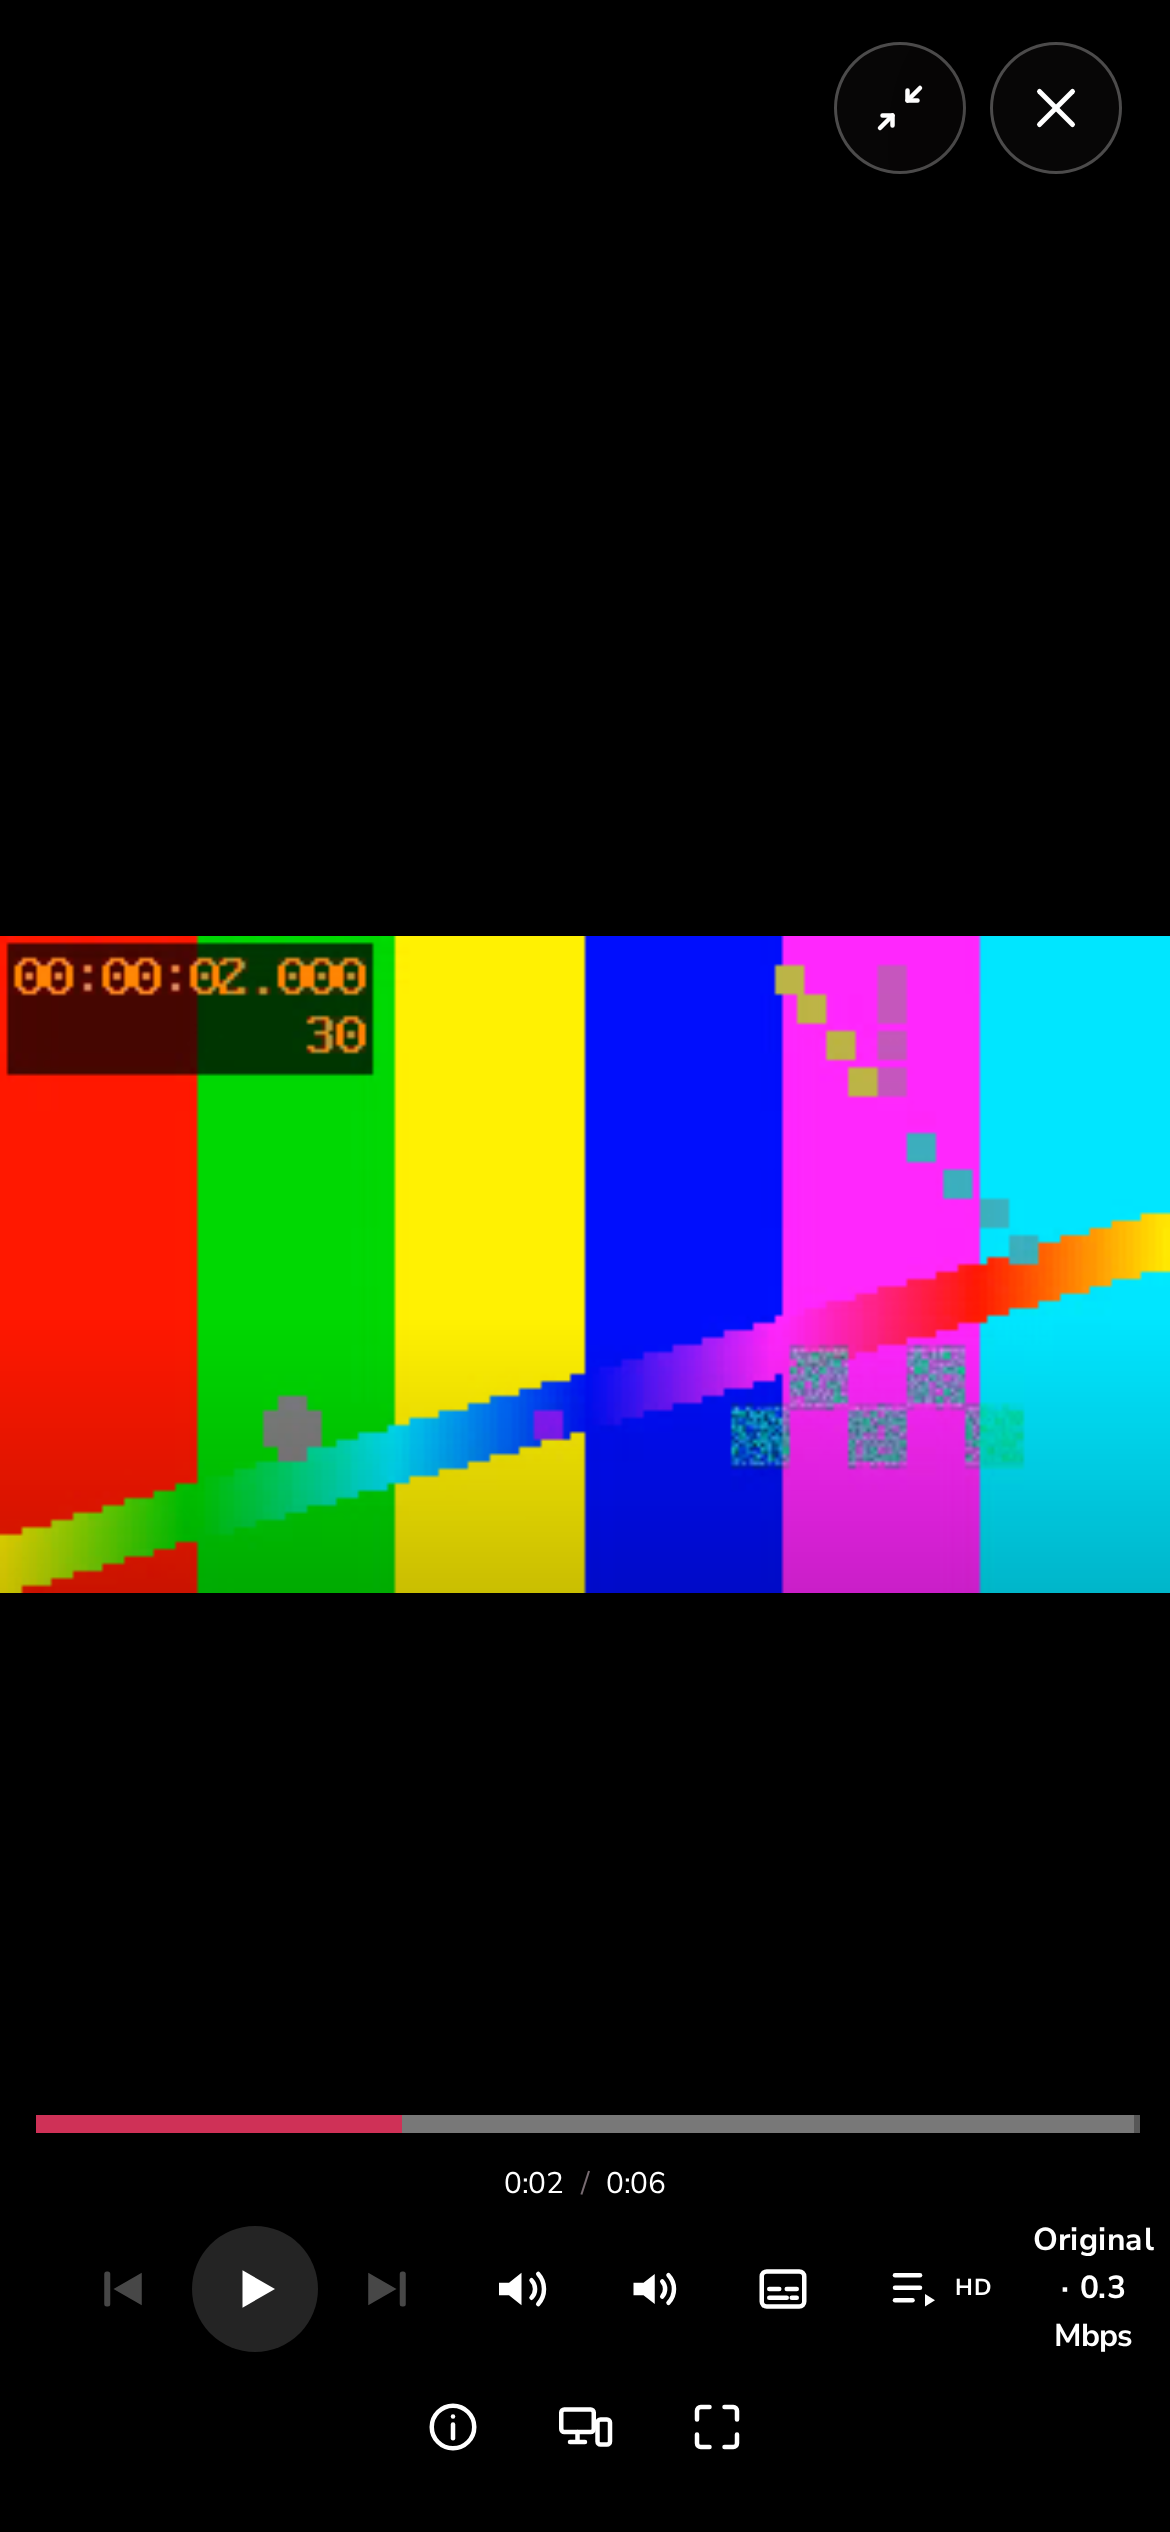
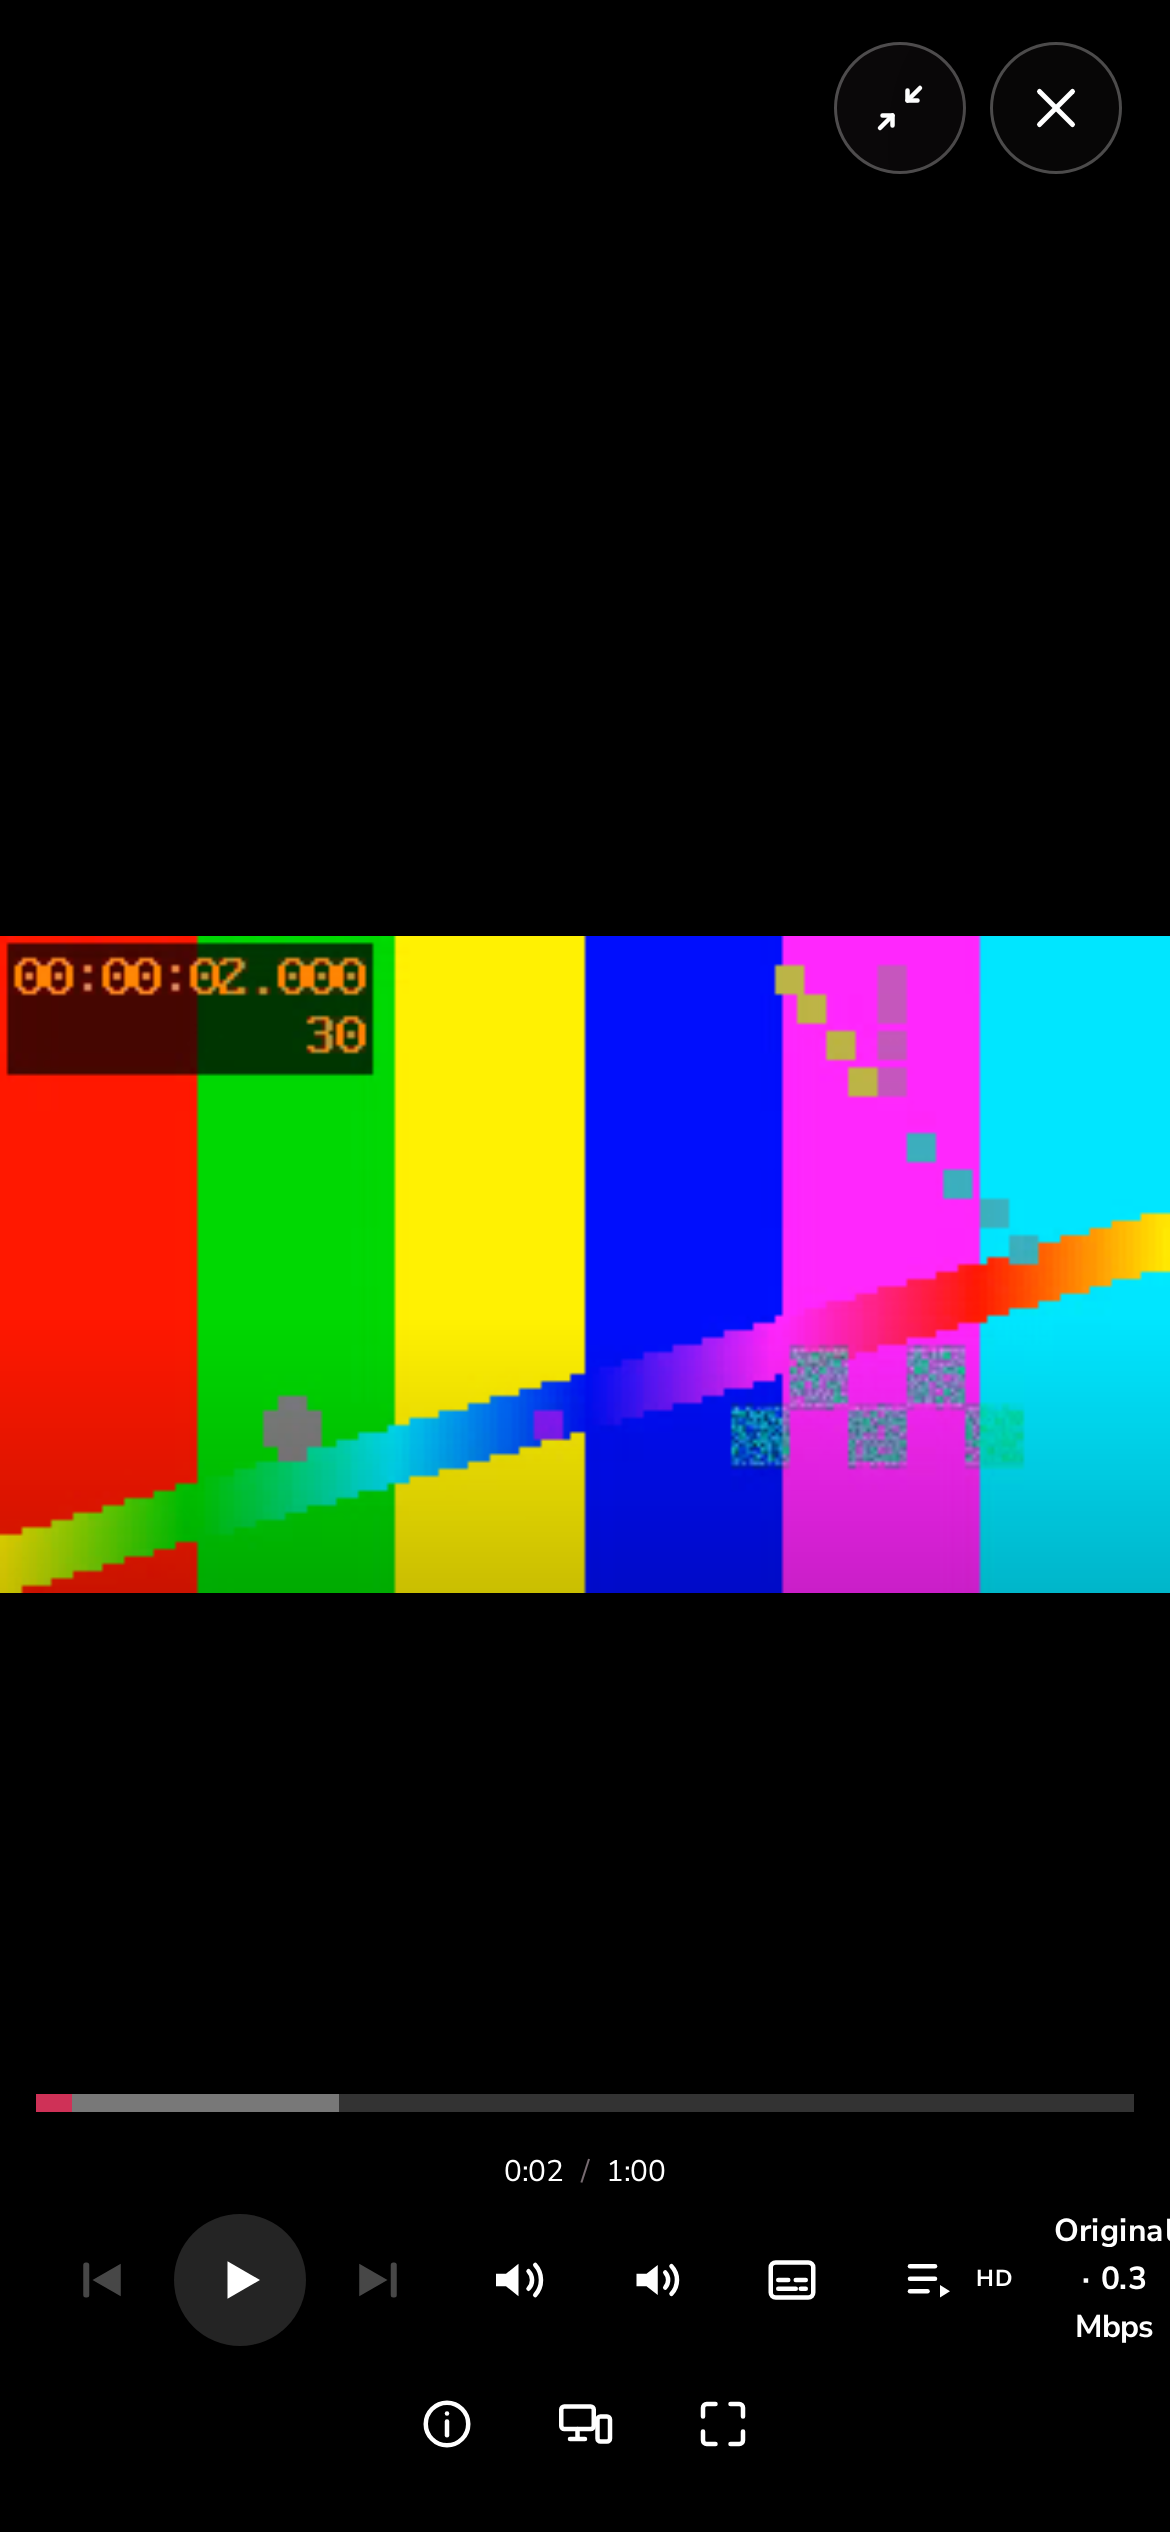
fix(web): 44px targets and 7:1 text over video for calendar, player chrome and drawers
Calendar month chips, header Back and period buttons, drawer close, update toast
dismiss, player control buttons, seek bar and volume slider reach 44x44 CSS px
(WCAG 2.5.5). Player close and minimise fills and player menu secondary text are
raised so text over video holds 7:1. The page audit gains player routes.

diff --git a/clients/tv-web/web/src/styles/global.css b/clients/tv-web/web/src/styles/global.css
@@ -2837,8 +2837,8 @@ code {
 }
 
 .update-toast-dismiss {
-  width: 38px;
-  height: 38px;
+  width: 44px;
+  height: 44px;
   background: transparent;
   color: var(--ink-muted);
   cursor: pointer;
@@ -3073,7 +3073,7 @@ code {
   padding: 0 1rem;
   border: 1px solid rgba(255, 255, 255, 0.28);
   border-radius: 999px;
-  background: rgba(12, 10, 11, 0.58);
+  background: rgba(12, 10, 11, 0.82);
   color: #ffffff;
   box-shadow: 0 12px 36px rgba(0, 0, 0, 0.3);
   backdrop-filter: blur(18px) saturate(120%);
@@ -3333,7 +3333,7 @@ code {
 .player-music-copy span,
 .player-music-copy small {
   overflow: hidden;
-  color: rgba(255, 255, 255, 0.58);
+  color: rgba(255, 255, 255, 0.8);
   font-size: clamp(0.55rem, calc(0.66 * var(--vw)), 0.76rem);
   font-weight: 680;
   letter-spacing: 0.08em;
@@ -3606,7 +3606,7 @@ body[data-input-mode="remote"]
 }
 
 .mini-player-time {
-  color: rgba(255, 255, 255, 0.64);
+  color: rgba(255, 255, 255, 0.8);
   font-size: clamp(0.46rem, calc(0.5 * var(--vw)), 0.58rem);
   font-variant-numeric: tabular-nums;
   line-height: 1;
@@ -3809,8 +3809,10 @@ body[data-input-mode="remote"]
 .player-seek-track {
   position: relative;
   width: 100%;
-  height: 6px;
-  background: rgba(255, 255, 255, 0.2);
+  /* A 44px tall hit area (WCAG 2.5.5) around the 6px bar; the margin keeps the controls layout where it was. */
+  height: 44px;
+  margin-block: -16px;
+  background: linear-gradient(rgba(255, 255, 255, 0.2), rgba(255, 255, 255, 0.2)) center / 100% 6px no-repeat;
   cursor: pointer;
   touch-action: none;
 }
@@ -3825,14 +3827,23 @@ body[data-input-mode="remote"] .player-seek-track:focus,
 /* Clear focus indicator: the white ring, with an enlarged highlighted thumb. */
 .player-seek-track:focus-visible,
 body[data-input-mode="remote"] .player-seek-track:focus {
+  box-shadow: none;
+}
+
+.player-seek-track:focus-visible::after,
+body[data-input-mode="remote"] .player-seek-track:focus::after {
+  content: "";
+  position: absolute;
+  inset: calc(50% - 3px) 0;
   box-shadow: 0 0 0 3px #ffffff;
+  pointer-events: none;
 }
 
 .player-seek-buffered,
 .player-seek-progress {
   position: absolute;
-  top: 0;
-  bottom: 0;
+  top: calc(50% - 3px);
+  height: 6px;
 }
 
 .player-seek-buffered {
@@ -3971,7 +3982,11 @@ body[data-input-mode="remote"] .player-seek-track:focus .player-seek-thumb {
 
 .player-volume-range {
   width: clamp(70px, calc(7 * var(--vw)), 130px);
-  height: 5px;
+  /* 44px hit area (WCAG 2.5.5); the 5px bar is drawn in the middle. */
+  height: 44px;
+  background-position: center;
+  background-repeat: no-repeat;
+  background-size: 100% 5px;
   border-radius: 0;
   appearance: none;
   cursor: pointer;
@@ -4005,7 +4020,7 @@ body[data-input-mode="remote"] .player-seek-track:focus .player-seek-thumb {
 
 .player-quality-button {
   min-width: 118px;
-  height: clamp(42px, calc(3.3 * var(--vw)), 56px);
+  height: clamp(44px, calc(3.3 * var(--vw)), 56px);
   display: inline-flex;
   align-items: center;
   justify-content: center;
@@ -4078,7 +4093,7 @@ body[data-input-mode="remote"] .player-seek-track:focus .player-seek-thumb {
 
 .player-quality-heading {
   padding: 0.55rem 0.7rem 0.45rem;
-  color: rgba(255, 255, 255, 0.56);
+  color: rgba(255, 255, 255, 0.8);
   font-size: 0.54rem;
   font-weight: 760;
   letter-spacing: 0.15em;
@@ -4136,7 +4151,7 @@ body[data-input-mode="remote"] .player-seek-track:focus .player-seek-thumb {
 }
 
 .player-quality-option small {
-  color: rgba(255, 255, 255, 0.55);
+  color: rgba(255, 255, 255, 0.8);
   font-size: 0.52rem;
 }
 
@@ -4295,7 +4310,7 @@ body[data-input-mode="remote"] .player-seek-track:focus .player-seek-thumb {
 .quality-matrix.is-player .quality-matrix-column-heading,
 .quality-matrix.is-player .quality-matrix-row-heading small,
 .quality-matrix.is-player .quality-matrix-choice small {
-  color: rgba(255, 255, 255, 0.54);
+  color: rgba(255, 255, 255, 0.8);
 }
 
 .quality-matrix.is-player .quality-matrix-row-heading {
@@ -4376,7 +4391,7 @@ body[data-input-mode="remote"] .player-seek-track:focus .player-seek-thumb {
 .player-playlist-panel > header span {
   display: block;
   margin-top: 0.18rem;
-  color: rgba(255, 255, 255, 0.5);
+  color: rgba(255, 255, 255, 0.8);
   font-size: 0.58rem;
 }
 
@@ -4428,7 +4443,7 @@ body[data-input-mode="remote"] .player-seek-track:focus .player-seek-thumb {
     rgba(8, 6, 7, 0.98) 62%,
     rgba(8, 6, 7, 0)
   );
-  color: rgba(255, 255, 255, 0.62);
+  color: rgba(255, 255, 255, 0.8);
   font-size: 0.55rem;
   font-weight: 780;
   letter-spacing: 0.14em;
@@ -4509,7 +4524,7 @@ body[data-input-mode="remote"] .player-seek-track:focus .player-seek-thumb {
 }
 
 .player-playlist-copy > span {
-  color: rgba(255, 255, 255, 0.5);
+  color: rgba(255, 255, 255, 0.8);
   font-size: 0.5rem;
 }
 
@@ -5870,8 +5885,8 @@ body[data-input-mode="remote"] .player-seek-track:focus .player-seek-thumb {
 }
 
 .tv-filter-drawer > header > button {
-  width: clamp(36px, calc(2.7 * var(--vw)), 48px);
-  height: clamp(36px, calc(2.7 * var(--vw)), 48px);
+  width: clamp(44px, calc(2.7 * var(--vw)), 48px);
+  height: clamp(44px, calc(2.7 * var(--vw)), 48px);
   display: grid;
   place-items: center;
   padding: 0;
@@ -5907,7 +5922,7 @@ body[data-input-mode="remote"] .player-seek-track:focus .player-seek-thumb {
 }
 
 .tv-filter-choice-grid button {
-  min-height: clamp(42px, calc(3.6 * var(--vw)), 56px);
+  min-height: clamp(44px, calc(3.6 * var(--vw)), 56px);
   display: flex;
   align-items: center;
   justify-content: center;
@@ -10612,9 +10627,9 @@ html.is-native-scroll-root .profile-auth-scroll {
 
   .player-btn,
   .player-quality-button {
-    width: 42px;
-    min-width: 42px;
-    height: 42px;
+    width: 44px;
+    min-width: 44px;
+    height: 44px;
     padding: 0;
   }
 
@@ -11847,7 +11862,7 @@ body[data-input-mode="remote"] :is(.tv-title-grid, .tv-search-results, .tv-media
 }
 
 .ui-btn--sm {
-  min-height: 38px;
+  min-height: 44px;
   padding: 0.45rem 0.9rem;
   font-size: 0.72rem;
 }
@@ -11858,9 +11873,11 @@ body[data-input-mode="remote"] :is(.tv-title-grid, .tv-search-results, .tv-media
 }
 
 .ui-btn--icon {
-  width: clamp(38px, calc(2.8 * var(--vw)), 50px);
-  min-height: clamp(38px, calc(2.8 * var(--vw)), 50px);
-  height: clamp(38px, calc(2.8 * var(--vw)), 50px);
+  flex: 0 0 auto;
+  min-width: 44px;
+  width: clamp(44px, calc(2.8 * var(--vw)), 50px);
+  min-height: clamp(44px, calc(2.8 * var(--vw)), 50px);
+  height: clamp(44px, calc(2.8 * var(--vw)), 50px);
   padding: 0;
   border-radius: 50%;
 }

diff --git a/clients/tv-web/web/src/styles/page-layout.css b/clients/tv-web/web/src/styles/page-layout.css
@@ -19,7 +19,7 @@
   --stage-rail-width: 62%;
   --page-header-top: clamp(34px, calc(5.2 * var(--viewport-unit)), 66px);
   --page-end: clamp(24px, calc(4 * var(--vw)), 96px);
-  --page-control-height: clamp(38px, calc(2.8 * var(--vw)), 50px);
+  --page-control-height: clamp(44px, calc(2.8 * var(--vw)), 50px);
   --action-pill-width: clamp(48px, calc(3.6 * var(--vw)), 62px);
   --action-pill-height: clamp(52px, calc(5.2 * var(--vw)), 72px);
   --action-pill-radius: 14px;
@@ -307,9 +307,9 @@
     display: none;
   }
   .tv-page-back {
-    width: 42px;
-    height: 42px;
-    flex: 0 0 42px;
+    width: 44px;
+    height: 44px;
+    flex: 0 0 44px;
   }
 }
 

diff --git a/clients/tv-web/web/stories/components/PageActions.stories.tsx b/clients/tv-web/web/stories/components/PageActions.stories.tsx
@@ -29,7 +29,7 @@ function Actions({ open, count, withNavigation, withLink }: Args) {
     <ShellActionColumnProvider>
       <div id="sb-create" hidden />
       <div id="sb-filters" hidden />
-      <div className="sb-pad">
+      <div className="sb-pad" style={{ paddingTop: 72 }}>{/* clear of the fixed action column on a phone */}
         <PageActions actions={actions} />
       </div>
     </ShellActionColumnProvider>

diff --git a/clients/tv-web/web/src/components/player/PlayerControls.tsx b/clients/tv-web/web/src/components/player/PlayerControls.tsx
@@ -403,7 +403,7 @@ export function PlayerControls({
   );
   const volumeTrackStyle = useMemo(
     () => ({
-      background: `linear-gradient(to right, var(--player-accent) ${volumePct}%, rgba(255,255,255,0.25) ${volumePct}%)`,
+      backgroundImage: `linear-gradient(to right, var(--player-accent) ${volumePct}%, rgba(255,255,255,0.25) ${volumePct}%)`,
     }),
     [volumePct]
   );

diff --git a/clients/tv-web/web/src/pages/Calendar.tsx b/clients/tv-web/web/src/pages/Calendar.tsx
@@ -419,8 +419,8 @@ function WeekTrack(props: Parameters<typeof DaySections>[0]) {
 }
 
 /** Rows of vertical space one month-cell chip needs, used to decide how many fit before "+N more". */
-const CHIP_ROW_PX = 26;
-const CELL_CHROME_PX = 52;
+const CHIP_ROW_PX = 46; // a 44px chip (WCAG 2.5.5) plus the 2px gap
+const CELL_CHROME_PX = 46;
 
 function MonthGrid({
   anchor,

diff --git a/clients/tv-web/web/src/pages/Calendar.css b/clients/tv-web/web/src/pages/Calendar.css
@@ -313,7 +313,7 @@
 .calendar-chip,
 .calendar-more {
   width: 100%;
-  min-height: 24px;
+  min-height: 44px;
   overflow: hidden;
   padding: 0.1rem 0.35rem;
   border: 0;

diff --git a/changelog.d/aaa-player-calendar.fixed.md b/changelog.d/aaa-player-calendar.fixed.md
@@ -1,0 +1,1 @@
+- Web: the calendar, player chrome and drawers now meet the WCAG 2.2 AAA 44 by 44 pixel target size. The calendar month chips, header Back and period buttons, drawer close, update toast dismiss, player control buttons, seek bar and volume slider all have 44 pixel hit areas (the seek bar and volume bar keep their drawn thickness). The player minimise and close buttons and the player menus' secondary text use stronger fills and text colours so that they stay at 7:1 over video.
